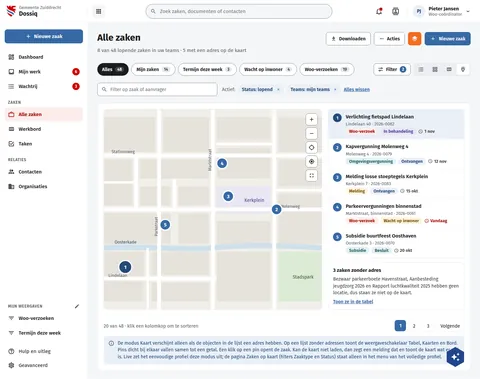
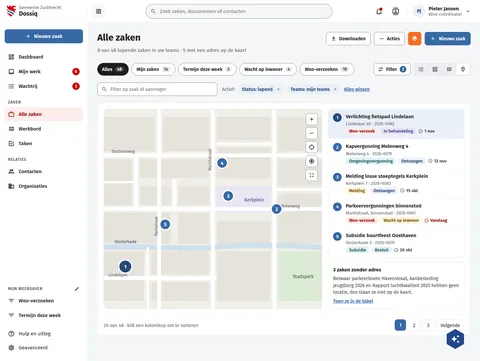
fix(screens): DqZakenKaart drops the explanatory note under the map
The note described the map mode for designers (when it shows, clustering,
the simple profile); it is not product copy and dossiq does not draw it.
Board height 1136 -> 1084; screens.json patched for this board only.

Assisted-by: ClaudeCode:claude-opus-5-5

diff --git a/preview/screens/boards/DqZakenKaart.html b/preview/screens/boards/DqZakenKaart.html
@@ -307,10 +307,6 @@ a{color:var(--sc-primary, #3669a5)}a:hover{color:var(--sc-primary-deep, #234a78)
             </div>
           </div>
           <div style="display: flex; flex-wrap: wrap; justify-content: space-between; align-items: center; gap: 12px; padding: 12px 18px; border-top: 1px solid var(--sc-work-soft, #eef0f3); font-size: 14px; color: var(--sc-work-muted, #5e6168)"><span>20 van 48 · klik een kolomkop om te sorteren</span><nav aria-label="Paginering" style="display: flex; gap: 6px"><a href="#" aria-current="page" style="min-width: 34px; height: 34px; display: inline-flex; align-items: center; justify-content: center; border-radius: 8px; background: var(--sc-primary, #3669a5); color: #ffffff; font-weight: 600; text-decoration: none">1</a><a href="#" style="min-width: 34px; height: 34px; display: inline-flex; align-items: center; justify-content: center; border-radius: 8px; border: 1px solid var(--sc-work-line, #e4e6ea); color: var(--sc-work-ink, #1b1c1d); text-decoration: none">2</a><a href="#" style="min-width: 34px; height: 34px; display: inline-flex; align-items: center; justify-content: center; border-radius: 8px; border: 1px solid var(--sc-work-line, #e4e6ea); color: var(--sc-work-ink, #1b1c1d); text-decoration: none">3</a><a href="#" style="height: 34px; padding: 0 12px; display: inline-flex; align-items: center; border-radius: 8px; border: 1px solid var(--sc-work-line, #e4e6ea); color: var(--sc-work-ink, #1b1c1d); text-decoration: none">Volgende</a></nav></div>
-          <div style="display: flex; gap: 10px; align-items: flex-start; margin: 0 18px 18px; padding: 12px 14px; border-radius: 10px; background: var(--sc-primary-light, #eaf0f7); color: var(--sc-primary-deep, #234a78); font-size: 14px; line-height: 1.45">
-            <svg width="18" height="18" viewbox="0 0 24 24" fill="currentColor" style="flex: none; margin-top: 1px"><path d="M11,9H13V7H11M12,20C7.59,20 4,16.41 4,12C4,7.59 7.59,4 12,4C16.41,4 20,7.59 20,12C20,16.41 16.41,20 12,20M12,2A10,10 0 0,0 2,12A10,10 0 0,0 12,22A10,10 0 0,0 22,12A10,10 0 0,0 12,2M11,17H13V11H11V17Z"></path></svg>
-            <span>De modus Kaart verschijnt alleen als de objecten in de lijst een adres hebben. Op een lijst zonder adressen toont de weergaveschakelaar Tabel, Kaarten en Bord. Pins dicht bij elkaar vallen samen tot een getal. Een klik op een pin opent de zaak. Kan de kaart niet laden, dan zegt een melding dat en toont de kaart wat er wel is. Live zet het eenvoudige profiel deze modus uit; de pagina Zaken op kaart (filters Zaaktype en Status) staat alleen in het menu van het volledige profiel.</span>
-          </div>
         </section>
       </main>
     </div>

diff --git a/screens-src/zuiddrecht/DqZakenKaart.dc.html b/screens-src/zuiddrecht/DqZakenKaart.dc.html
@@ -127,10 +127,6 @@ a{color:#3669a5}a:hover{color:#234a78}
             </div>
           </div>
           <div style="display: flex; flex-wrap: wrap; justify-content: space-between; align-items: center; gap: 12px; padding: 12px 18px; border-top: 1px solid #eef0f3; font-size: 14px; color: #5e6168"><span>20 van 48 · klik een kolomkop om te sorteren</span><nav aria-label="Paginering" style="display: flex; gap: 6px"><a href="#" aria-current="page" style="min-width: 34px; height: 34px; display: inline-flex; align-items: center; justify-content: center; border-radius: 8px; background: #3669a5; color: #ffffff; font-weight: 600; text-decoration: none">1</a><a href="#" style="min-width: 34px; height: 34px; display: inline-flex; align-items: center; justify-content: center; border-radius: 8px; border: 1px solid #e4e6ea; color: #1b1c1d; text-decoration: none">2</a><a href="#" style="min-width: 34px; height: 34px; display: inline-flex; align-items: center; justify-content: center; border-radius: 8px; border: 1px solid #e4e6ea; color: #1b1c1d; text-decoration: none">3</a><a href="#" style="height: 34px; padding: 0 12px; display: inline-flex; align-items: center; border-radius: 8px; border: 1px solid #e4e6ea; color: #1b1c1d; text-decoration: none">Volgende</a></nav></div>
-          <div style="display: flex; gap: 10px; align-items: flex-start; margin: 0 18px 18px; padding: 12px 14px; border-radius: 10px; background: #eaf0f7; color: #234a78; font-size: 14px; line-height: 1.45">
-            <svg width="18" height="18" viewBox="0 0 24 24" fill="currentColor" style="flex: none; margin-top: 1px"><path d="M11,9H13V7H11M12,20C7.59,20 4,16.41 4,12C4,7.59 7.59,4 12,4C16.41,4 20,7.59 20,12C20,16.41 16.41,20 12,20M12,2A10,10 0 0,0 2,12A10,10 0 0,0 12,22A10,10 0 0,0 22,12A10,10 0 0,0 12,2M11,17H13V11H11V17Z"></path></svg>
-            <span>De modus Kaart verschijnt alleen als de objecten in de lijst een adres hebben. Op een lijst zonder adressen toont de weergaveschakelaar Tabel, Kaarten en Bord. Pins dicht bij elkaar vallen samen tot een getal. Een klik op een pin opent de zaak. Kan de kaart niet laden, dan zegt een melding dat en toont de kaart wat er wel is. Live zet het eenvoudige profiel deze modus uit; de pagina Zaken op kaart (filters Zaaktype en Status) staat alleen in het menu van het volledige profiel.</span>
-          </div>
         </section>
       </main>
     </div>
